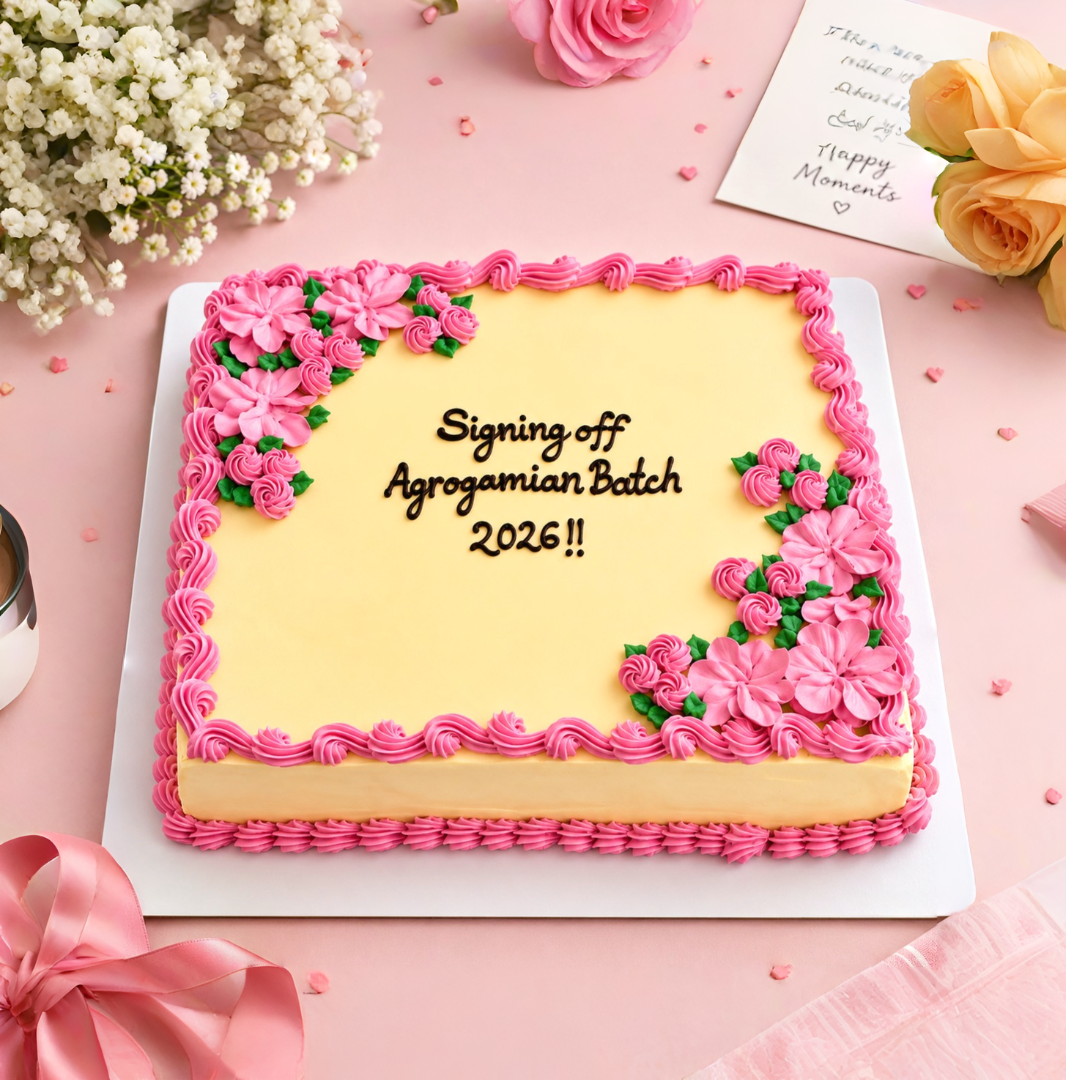
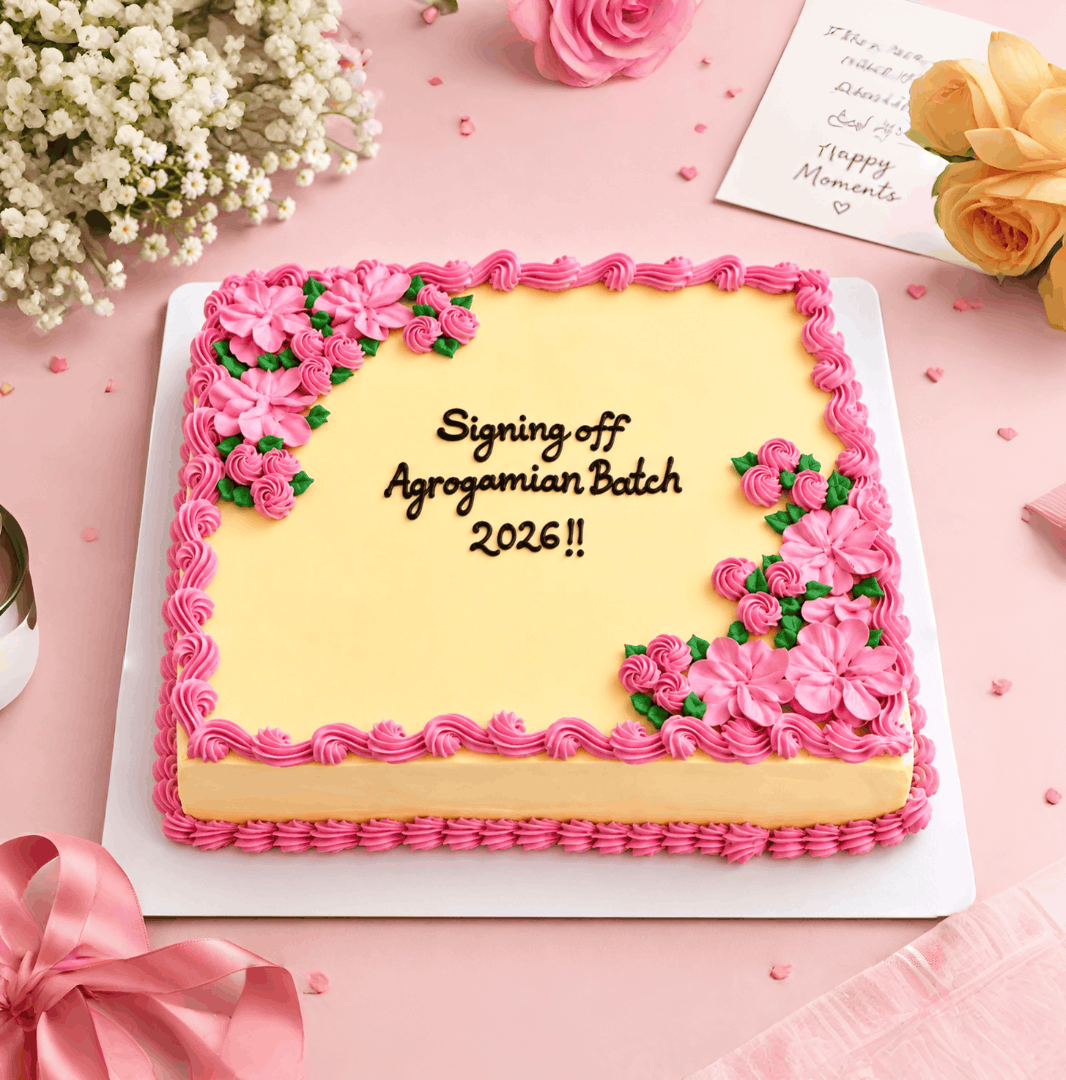
ss image fix

diff --git a/src/components/HappyCustomers.tsx b/src/components/HappyCustomers.tsx
@@ -18,37 +18,37 @@ function shot(file: string, width: number, height: number, alt: string): Chat {
 // Ordered narrow, wide, narrow, wide… so the row keeps an even rhythm
 const chats: Chat[] = [
   shot(
-    "1.jpeg",
+    "1.jpg",
     828,
     1218,
     "Customer chat with a photo of a green rosette anniversary cake: \u201cCake amar baba maa r onek bhallagse! Thankuuu\u201d",
   ),
   shot(
-    "4.jpeg",
+    "4.jpg",
     728,
     616,
     "Customer chat: \u201cCake ta onek moja chilo, sobbai pocondo korse r jemon caiselam amn e hoiche\u201d",
   ),
   shot(
-    "3.jpeg",
+    "3.jpg",
     737,
     965,
     "Customer chat with a photo of a pink and white birthday cake: \u201cThank you sm. Cake ta dekhte nd khete khub e valo chilo!\u201d",
   ),
   shot(
-    "5.jpeg",
+    "5.jpg",
     731,
     596,
     "Customer chat: \u201cCake ta khub e tasty chilo, cream tao valo, kena cake er moto excess oil nai. Design and taste obai onek pochondo koreche\u201d",
   ),
   shot(
-    "6.jpeg",
+    "6.jpg",
     729,
     964,
     "Customer chat: \u201cIt\u2019s beautiful, thank youuu. Actually eita amr ekta friend er order chilo and she said the cake was tastyyy!\u201d",
   ),
   shot(
-    "2.jpeg",
+    "2.jpg",
     738,
     677,
     "Customer chat: \u201cMy niece also loved it. It was so soft and tasty too, yummy. Thank u apu\u201d",
